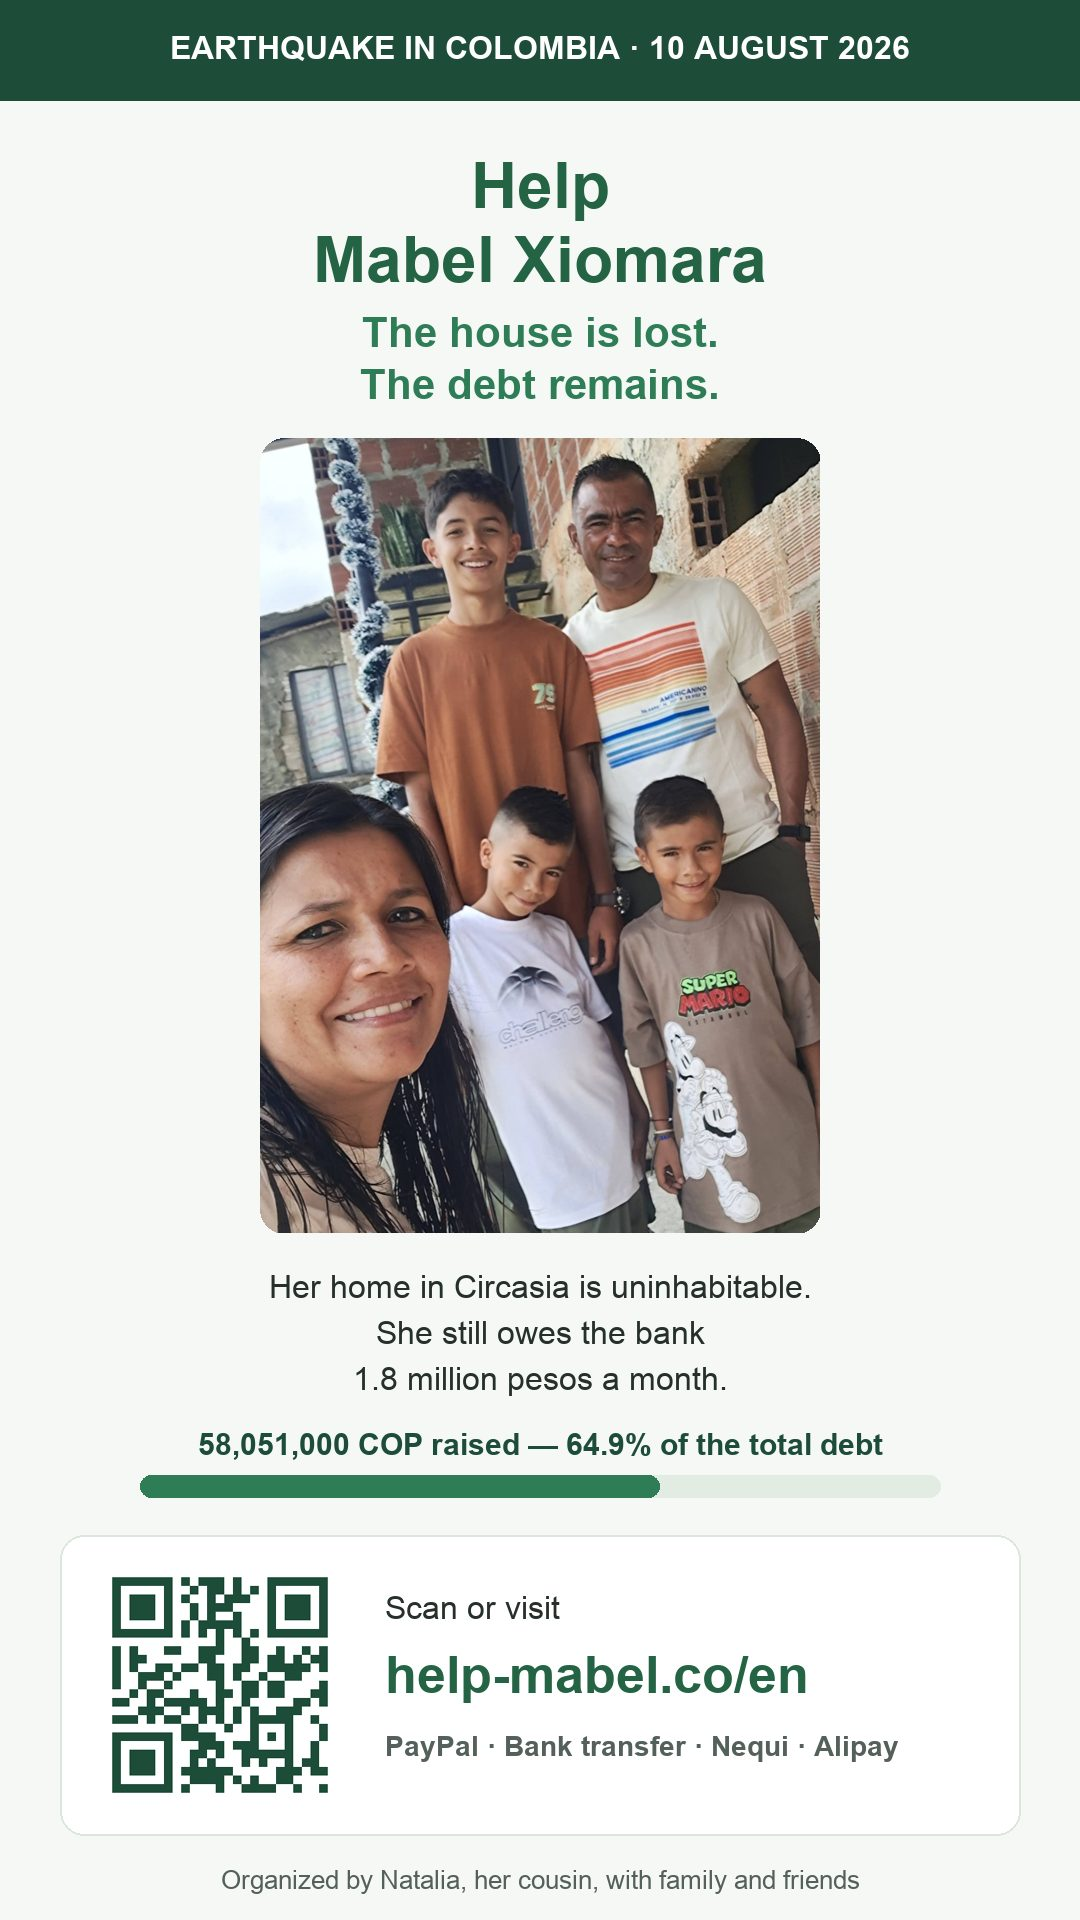
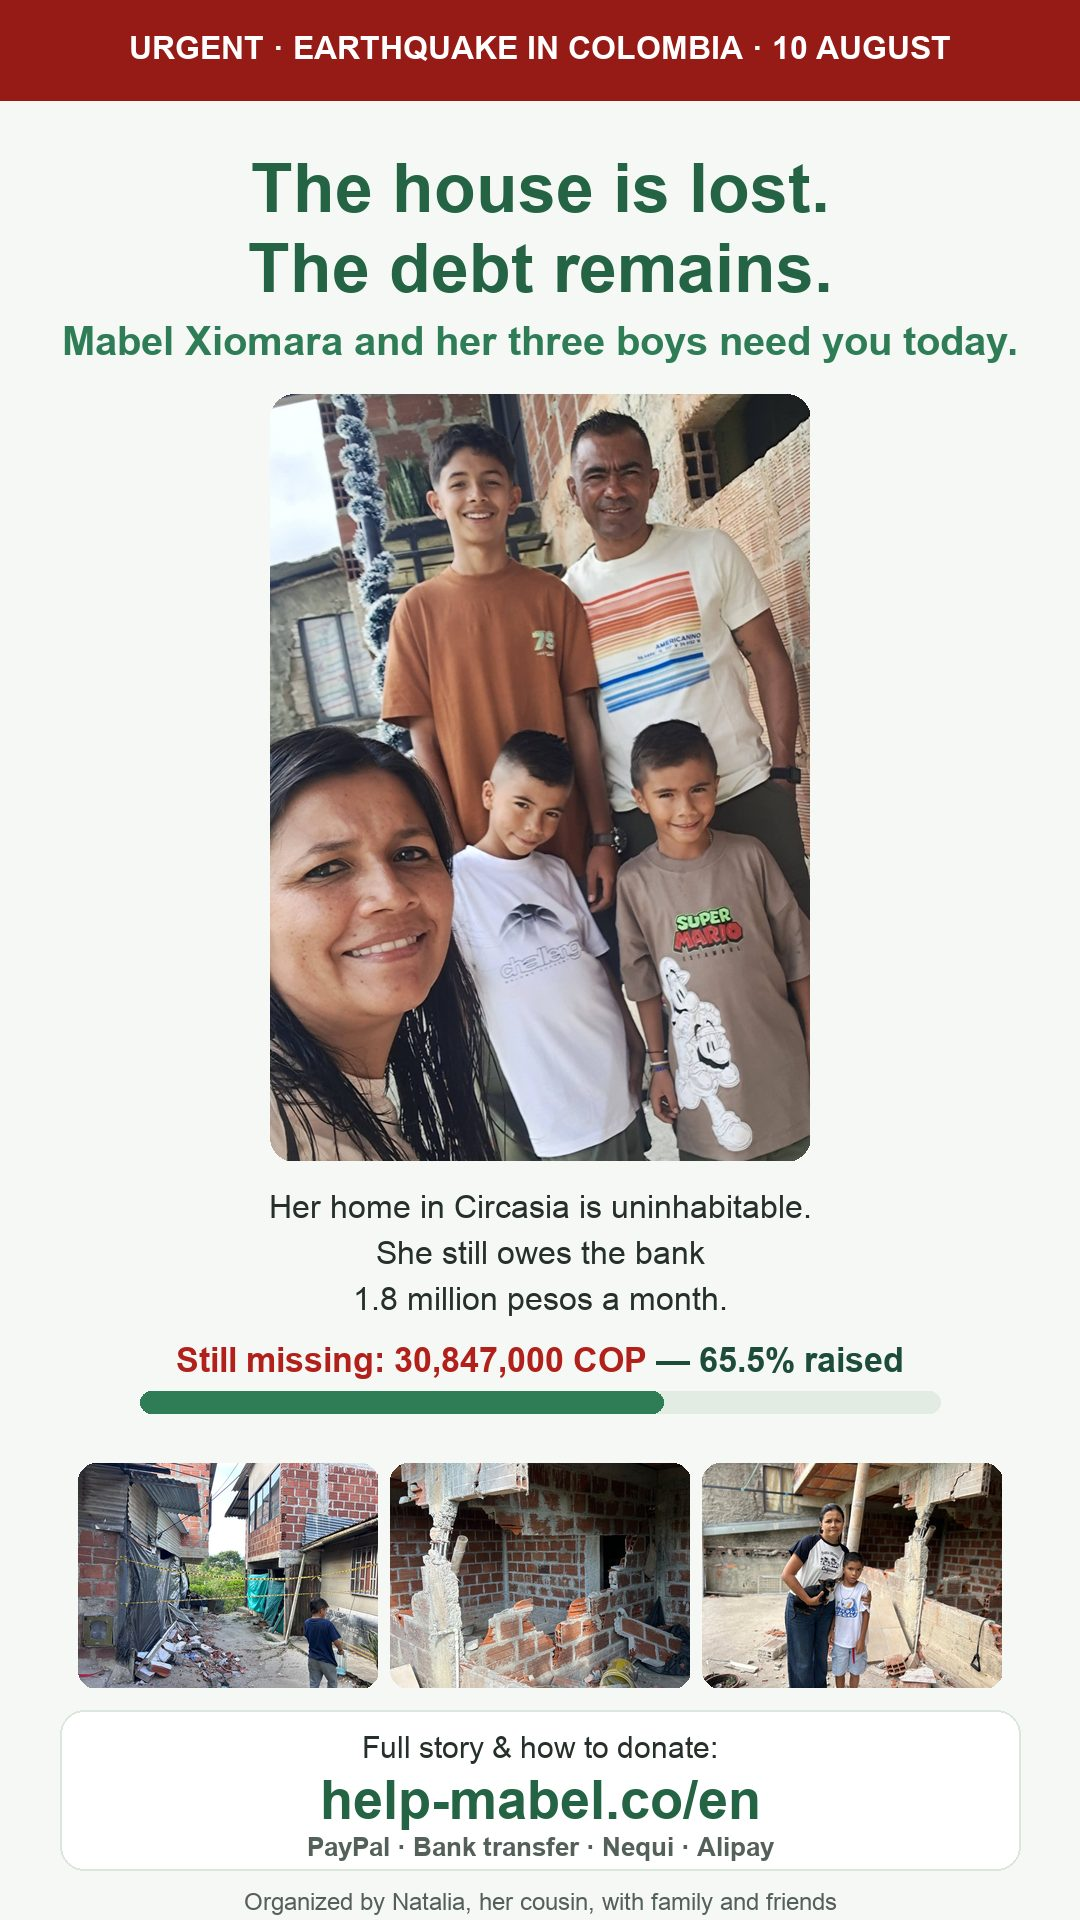
Stories del botón «Compartir en tu estado» rediseñadas (pedido de Paul 20-ago): banda roja URGENTE, titular «La casa se perdió. / La deuda sigue.», línea de progreso solo con lo que falta + % (Faltan $30.847.000 — 65,5 %), y franja de 3 fotos del daño en lugar del QR (el enlace va en el texto de WA)
Claude-Session: https://claude.ai/code/session_01MG7BFmp8uWrPs4SjDRqYeU

diff --git a/de/index.html b/de/index.html
@@ -437,7 +437,7 @@ einen Chat oder deine Moments（朋友圈）ein und sende sie.</p>
 function shareStory(el){
   var orig = el.textContent;
   el.textContent = "Bild wird vorbereitet…";
-  fetch("../img/story-de.jpg").then(function(r){ return r.blob(); }).then(function(b){
+  fetch("../img/story-de.jpg?v=2").then(function(r){ return r.blob(); }).then(function(b){
     var f = new File([b], "hilfe-mabel.jpg", {type: "image/jpeg"});
     if (navigator.canShare && navigator.canShare({files: [f]})) {
       navigator.share({files: [f], text: "Das Haus von Mabel Xiomara in Kolumbien ist durch das Erdbeben verloren, aber die Bankschulden bleiben. So kannst du helfen: https://help-mabel.co/de/"})
@@ -445,9 +445,9 @@ function shareStory(el){
         .catch(function(){ el.textContent = orig; });
     } else {
       el.textContent = "Speichere das Bild und poste es in deiner Story 📲";
-      window.open("../img/story-de.jpg", "_blank");
+      window.open("../img/story-de.jpg?v=2", "_blank");
     }
-  }).catch(function(){ el.textContent = orig; window.open("../img/story-de.jpg", "_blank"); });
+  }).catch(function(){ el.textContent = orig; window.open("../img/story-de.jpg?v=2", "_blank"); });
   return false;
 }
 function copyText(t, el, ok){

diff --git a/en/index.html b/en/index.html
@@ -428,7 +428,7 @@ chat or your Moments（朋友圈）and send.</p>
 function shareStory(el){
   var orig = el.textContent;
   el.textContent = "Preparing image…";
-  fetch("../img/story-en.jpg").then(function(r){ return r.blob(); }).then(function(b){
+  fetch("../img/story-en.jpg?v=2").then(function(r){ return r.blob(); }).then(function(b){
     var f = new File([b], "help-mabel.jpg", {type: "image/jpeg"});
     if (navigator.canShare && navigator.canShare({files: [f]})) {
       navigator.share({files: [f], text: "Mabel Xiomara's home in Colombia was lost in the earthquake, but the bank debt remains. How to help: https://help-mabel.co/en/"})
@@ -436,9 +436,9 @@ function shareStory(el){
         .catch(function(){ el.textContent = orig; });
     } else {
       el.textContent = "Save the image and post it to your story 📲";
-      window.open("../img/story-en.jpg", "_blank");
+      window.open("../img/story-en.jpg?v=2", "_blank");
     }
-  }).catch(function(){ el.textContent = orig; window.open("../img/story-en.jpg", "_blank"); });
+  }).catch(function(){ el.textContent = orig; window.open("../img/story-en.jpg?v=2", "_blank"); });
   return false;
 }
 function copyText(t, el, ok){

diff --git a/index.html b/index.html
@@ -449,7 +449,7 @@ un chat o en Momentos（朋友圈）y envíalo.</p>
 function shareStory(el){
   var orig = el.textContent;
   el.textContent = "Preparando imagen…";
-  fetch("img/story-es.jpg").then(function(r){ return r.blob(); }).then(function(b){
+  fetch("img/story-es.jpg?v=2").then(function(r){ return r.blob(); }).then(function(b){
     var f = new File([b], "ayuda-mabel.jpg", {type: "image/jpeg"});
     if (navigator.canShare && navigator.canShare({files: [f]})) {
       navigator.share({files: [f], text: "La casa de Mabel Xiomara en Circasia se perdió en el terremoto, pero la deuda con el banco sigue. Cómo ayudar: https://help-mabel.co"})
@@ -457,9 +457,9 @@ function shareStory(el){
         .catch(function(){ el.textContent = orig; });
     } else {
       el.textContent = "Guarda la imagen y súbela a tu estado 📲";
-      window.open("img/story-es.jpg", "_blank");
+      window.open("img/story-es.jpg?v=2", "_blank");
     }
-  }).catch(function(){ el.textContent = orig; window.open("img/story-es.jpg", "_blank"); });
+  }).catch(function(){ el.textContent = orig; window.open("img/story-es.jpg?v=2", "_blank"); });
   return false;
 }
 function copyText(t, el, ok){
